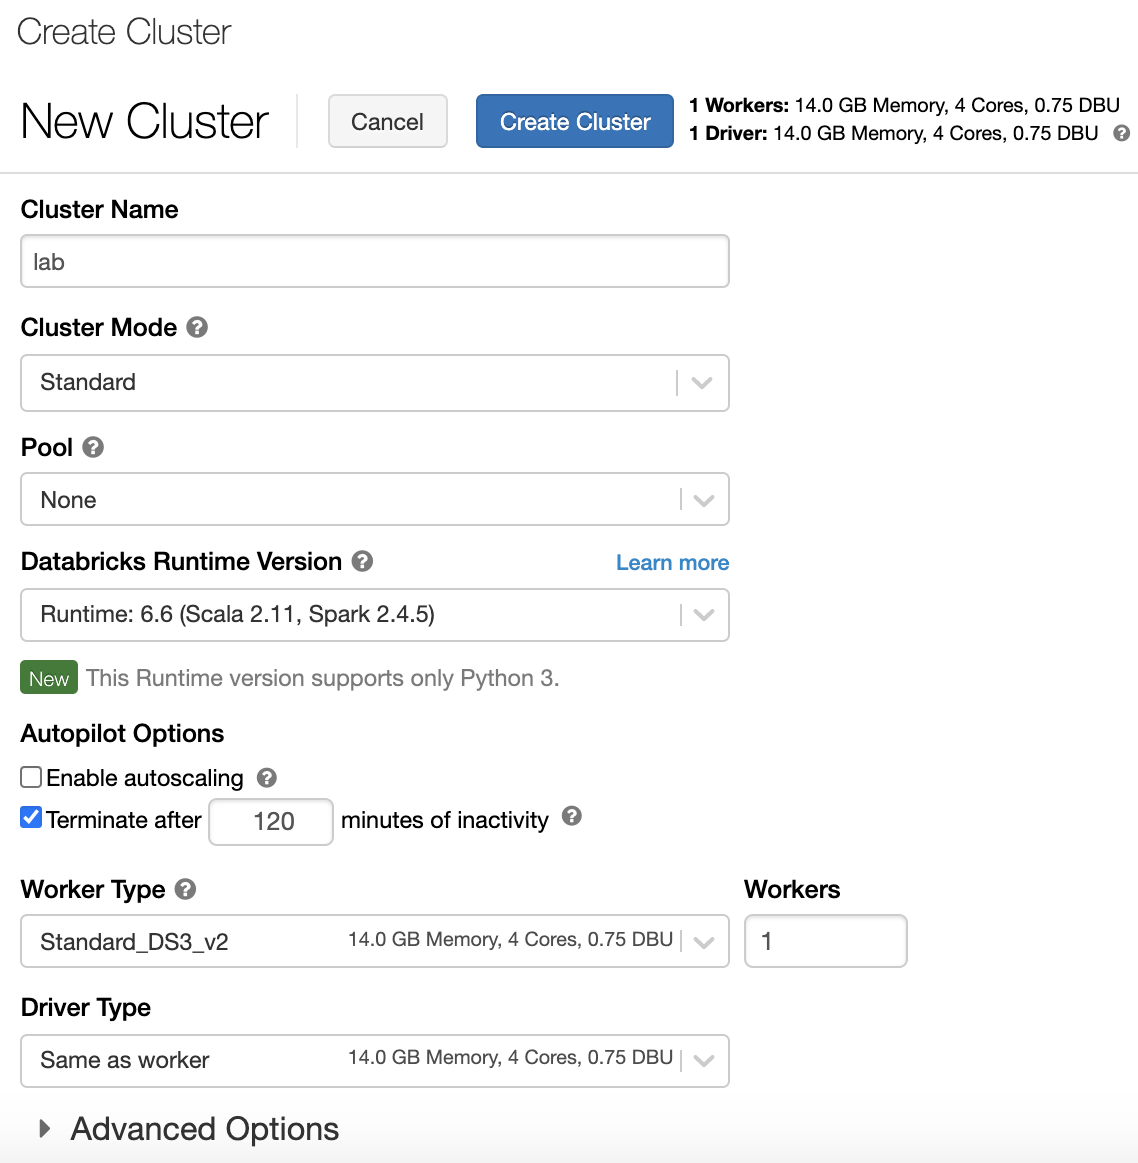
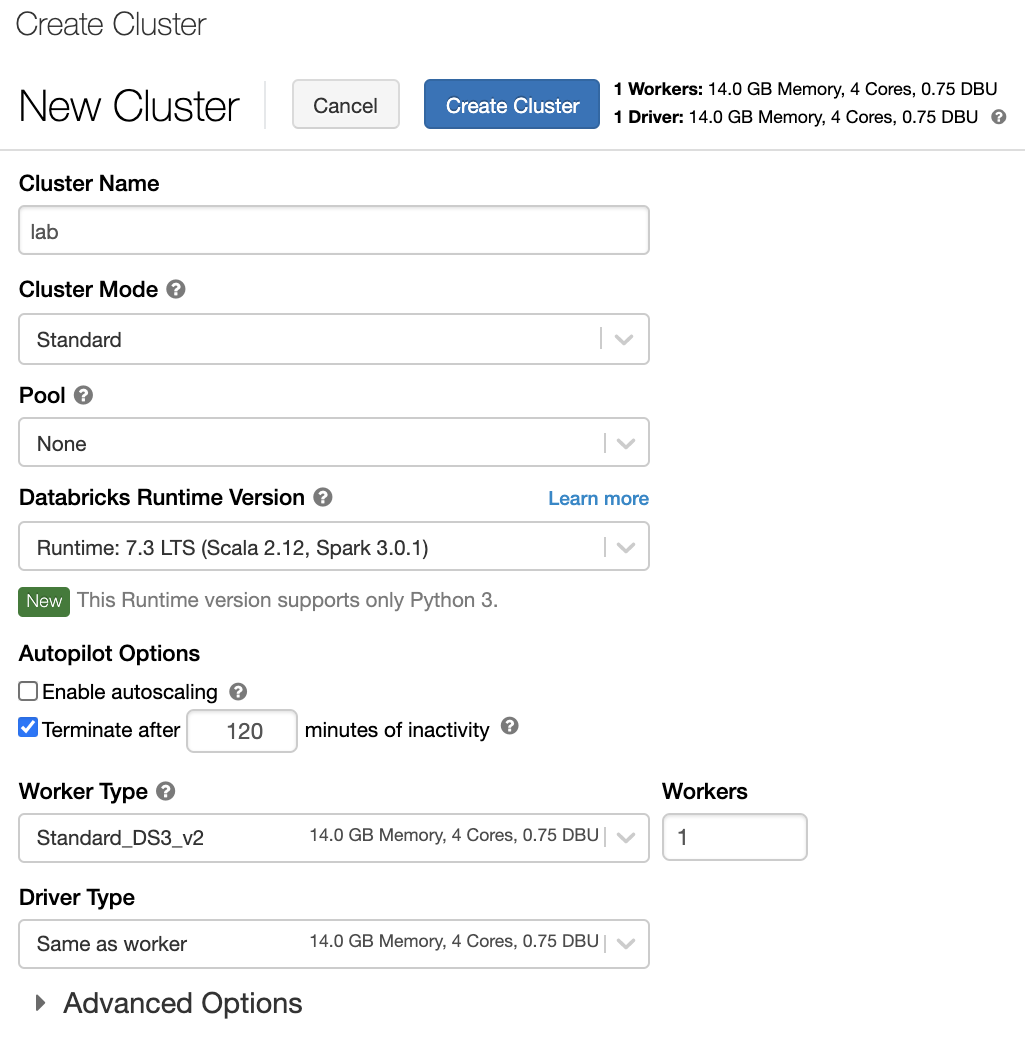
fix issue #31

diff --git a/Hands-on lab/Before the HOL - Machine Learning.md b/Hands-on lab/Before the HOL - Machine Learning.md
@@ -107,7 +107,7 @@ You have provisioned an Azure Databricks workspace, and now you need to create a
 
     - **Cluster Mode**: **Standard**
 
-    - **Databricks Runtime Version**: **Runtime: 6.6 (Scala 2.11, Spark 2.4.5)**
+    - **Databricks Runtime Version**: **Runtime: 7.3 LTS (Scala 2.12, Spark 3.0.1)**
 
     - **Enable autoscaling**: **Uncheck** this option.
 
@@ -139,7 +139,7 @@ The notebooks you will run depends on certain Python libraries that will need to
 
     ![In the lab cluster, the Libraries tab is selected and the Install New button is highlighted.](images/azure-databricks-cluster-libraries.png "Install New")
 
-4. In the Library Source, select **PyPi** and in the Package text box type `azureml-sdk[automl]` and select **Install**.
+4. In the Library Source, select **PyPi** and in the Package text box type `azureml-sdk[databricks]` and select **Install**.
 
     ![The Install Library dialog showing the PyPi item selected as the source and the azureml-sdk value entered in the package textbox.](images/azure-databricks-install-library.png "Install Library")
 
